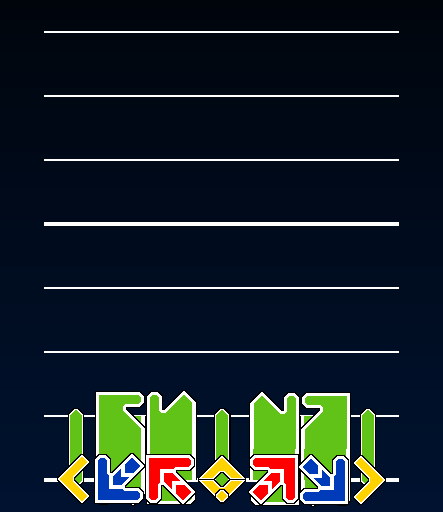
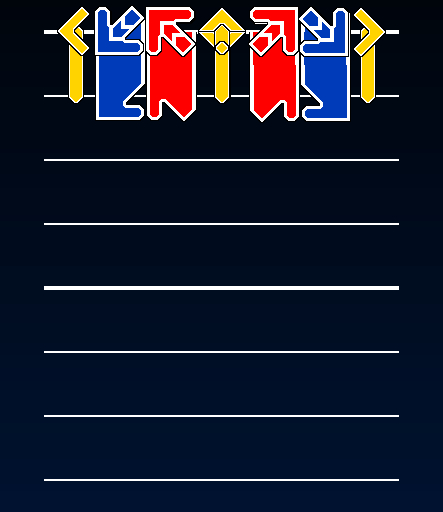
Show reverse off and holds

Changed region(s): [[0.1174, 0.75, 0.8804, 1.0], [0.1174, 0.0, 0.8804, 0.25]]

diff --git a/measure/index.js b/measure/index.js
@@ -7,7 +7,7 @@ const main = async () => {
   // Selected mode/style input
   const curMode = 'ds3ddx';
   const curStyle = 'single' || defaultstyle.defaultstyle[curMode];
-  const reverse = true;
+  const reverse = false;
   const showMeasureLines = true;
   const curModeOFStyle = (curMode) => {
     if (curMode.includes('kb')) return 'kbx'

diff --git a/measure/stylechart.js b/measure/stylechart.js
@@ -268,7 +268,7 @@ exports.stylechart = {
     ['1111111111111111111', '0000000000000000000', '0000000000000000000', '0000000000000000000']
   ],
   "ds3ddx-single": [
-    ['44444444', '33333333', '00000000', '00000000'],
+    ['22222222', '33333333', '00000000', '00000000'],
     ['00000000', '00000000', '00000000', '00000000']
   ]
 };
